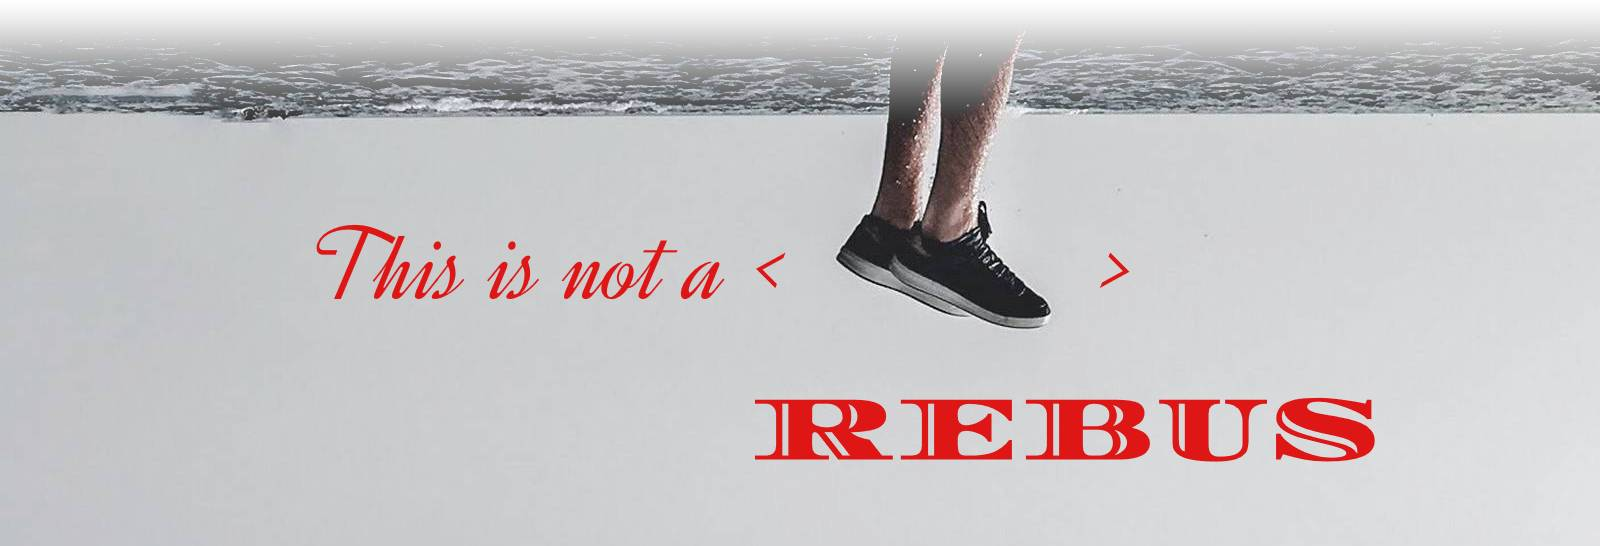
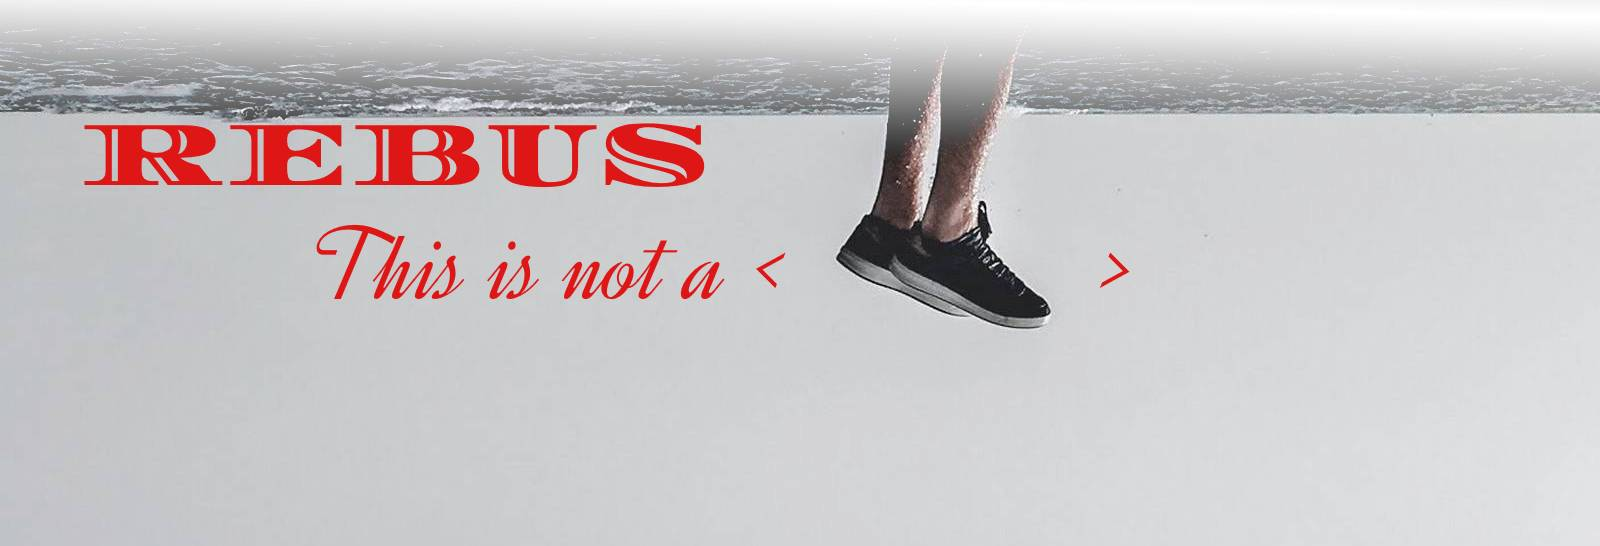
change font

Changed region(s): [[0.0312, 0.0311, 1.0, 0.3425], [0.4688, 0.7161, 0.875, 0.8718], [0.2188, 0.1557, 0.25, 0.1868]]

diff --git a/index.html b/index.html
@@ -12,7 +12,8 @@
     <link rel="shortcut icon" href="favicon.ico" type="image/x-icon">
     <link rel="icon" href="favicon.ico" type="image/x-icon">
 
-    <link href="https://fonts.googleapis.com/css?family=Poppins:400,700&display=swap" rel="stylesheet">
+    <!-- <link href="https://fonts.googleapis.com/css?family=Poppins:400,700&display=swap" rel="stylesheet"> -->
+
 
     <link rel="stylesheet" href="https://use.fontawesome.com/releases/v5.8.2/css/all.css"
         integrity="sha384-oS3vJWv+0UjzBfQzYUhtDYW+Pj2yciDJxpsK1OYPAYjqT085Qq/1cq5FLXAZQ7Ay" crossorigin="anonymous">

diff --git a/css/style.css b/css/style.css
@@ -7,8 +7,9 @@
 body {
     max-width: 1600px;
     margin: 0 auto;
-    font-family: 'Poppins', sans-serif;
-    /* font-family: Arial, "Helvetica Neue", Helvetica, sans-serif; */
+    /* font-family: 'Poppins', sans-serif; */
+
+    font-family: Arial, "Helvetica Neue", Helvetica, sans-serif;
 }
 
 .wrapper {
